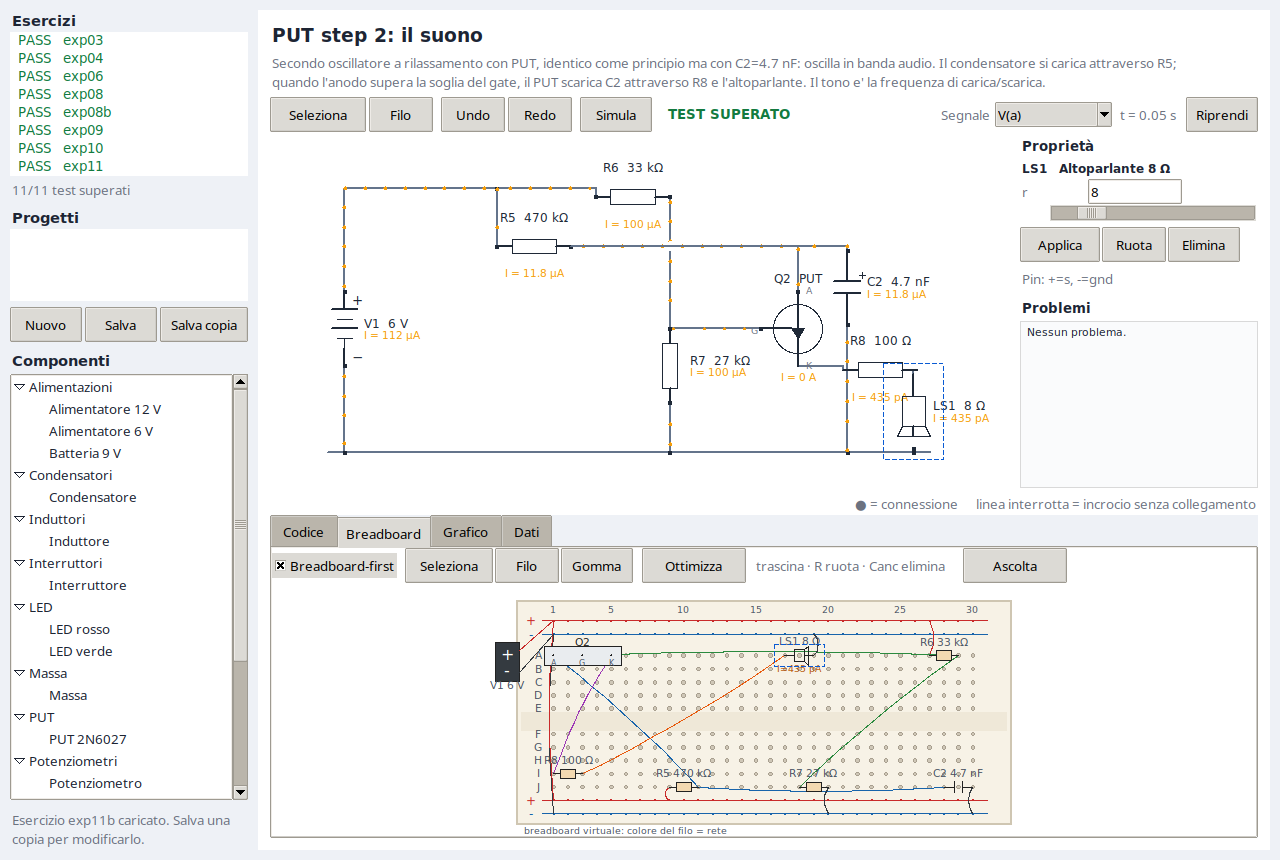
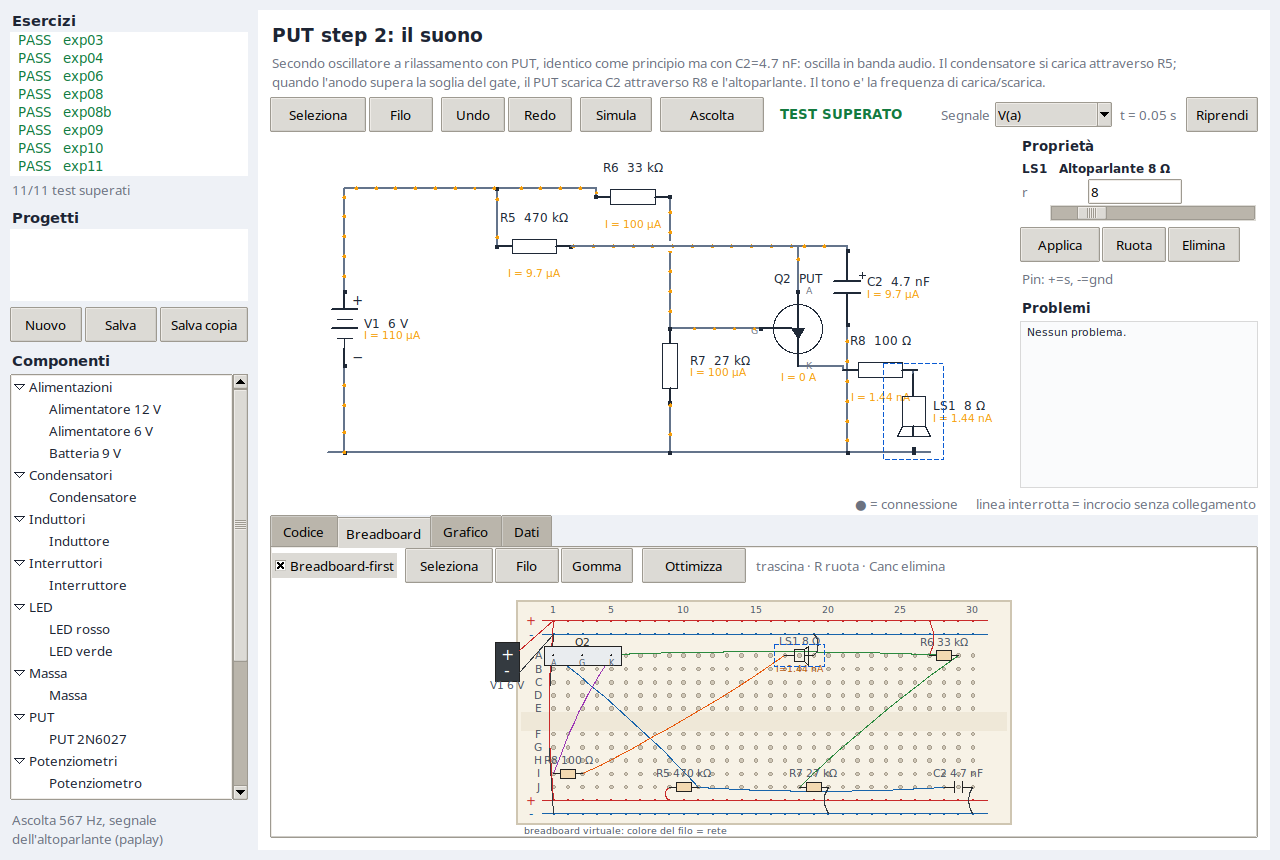
Play the real loudspeaker waveform and make the sound button global

diff --git a/clab/audio.py b/clab/audio.py
@@ -84,7 +84,7 @@ def play(path):
     return None
 
 
-def render(circ, res, path=None, seconds=0.6, rate=44100, play_audio=False):
+def render(circ, res, path=None, seconds=2.0, rate=44100, play_audio=False):
     pid, part, f, signal = measure(circ, res)
     if not 20.0 <= f <= 20000.0:
         raise AudioError(f"frequenza {f:.0f} Hz fuori dall'udibile")
@@ -92,19 +92,39 @@ def render(circ, res, path=None, seconds=0.6, rate=44100, play_audio=False):
         handle = tempfile.NamedTemporaryFile(prefix="elettrolab-", suffix=".wav", delete=False)
         path = handle.name
         handle.close()
-    n = max(1, int(seconds * rate))
-    t = np.arange(n, dtype=float) / rate
-    tone = np.sign(np.sin(2.0 * math.pi * f * t))
+
+    t = np.asarray(res.time, dtype=float)
+    y = np.asarray(signal, dtype=float)
+    lo, hi = float(np.min(y)), float(np.max(y))
+    threshold = lo + (hi - lo) * 0.5
+    edges = np.where((y[:-1] <= threshold) & (y[1:] > threshold))[0]
+    if len(edges) >= 2:
+        i0, i1 = int(edges[0]), int(edges[-1]) + 1
+        tseg, seg = t[i0:i1], y[i0:i1]
+    else:
+        tseg, seg = t, y
+    seg = seg - float(np.mean(seg))
+    n = max(32, int(round((tseg[-1] - tseg[0]) * rate)))
+    seg = np.interp(np.linspace(tseg[0], tseg[-1], n), tseg, seg)
     k = max(1, int(rate / 12000))
-    tone = np.convolve(tone, np.ones(k) / k, mode="same")
-    fade = min(n // 4, int(0.01 * rate))
+    seg = np.convolve(seg, np.ones(k) / k, mode="same")
+
+    n_out = max(1, int(seconds * rate))
+    reps = int(math.ceil(n_out / len(seg)))
+    out = np.tile(seg, reps)[:n_out]
+    peak = float(np.max(np.abs(out)))
+    if peak < 1e-12:
+        raise AudioError("segnale dell'altoparlante nullo")
+    out = np.tanh((out / peak) * 8.0)
+    out -= float(np.mean(out))
+    peak = float(np.max(np.abs(out)))
+    out *= 0.85 / peak
+    fade = min(n_out // 4, int(0.01 * rate))
     if fade > 0:
-        env = np.ones(n)
-        env[:fade] = np.linspace(0.0, 1.0, fade)
-        env[-fade:] = np.linspace(1.0, 0.0, fade)
-        tone *= env
-    tone *= 0.35
-    _write_wav(path, tone, rate)
+        out[:fade] *= np.linspace(0.0, 1.0, fade)
+        out[-fade:] *= np.linspace(1.0, 0.0, fade)
+
+    _write_wav(path, out, rate)
     player = play(path) if play_audio else None
     return {
         "path": str(path),
@@ -113,4 +133,5 @@ def render(circ, res, path=None, seconds=0.6, rate=44100, play_audio=False):
         "rate": rate,
         "player": player,
         "transducer": pid,
+        "mode": "signal",
     }

diff --git a/clab/gui.py b/clab/gui.py
@@ -200,6 +200,7 @@ class App:
         ttk.Button(bar, text="Undo", width=6, command=self._undo).pack(side="left")
         ttk.Button(bar, text="Redo", width=6, command=self._redo).pack(side="left", padx=(3, 8))
         ttk.Button(bar, text="Simula", width=7, command=self._after_change).pack(side="left")
+        self.sound_btn = ttk.Button(bar, text="Ascolta", command=self._play_sound)
         self.status = ttk.Label(bar, text="", style="Status.TLabel")
         self.status.pack(side="left", padx=(14, 0))
         self.viol = ttk.Label(bar, text="", style="Card.TLabel", foreground=FAIL)
@@ -261,7 +262,6 @@ class App:
                    command=lambda: self._set_bb_tool("erase")).pack(side="left", padx=1)
         ttk.Button(bbar, text="Ottimizza", command=self._optimize_board).pack(
             side="left", padx=(8, 0))
-        self.sound_btn = ttk.Button(bbar, text="Ascolta", command=self._play_sound)
         ttk.Label(bbar, text="trascina · R ruota · Canc elimina",
                   style="Muted.TLabel").pack(side="left", padx=8)
         self.bb_canvas = tk.Canvas(bbf, bg=CARD, highlightthickness=0)
@@ -551,7 +551,7 @@ class App:
             for pid in self.doc.parts))
         if has:
             if not self.sound_btn.winfo_manager():
-                self.sound_btn.pack(side="left", padx=(8, 0))
+                self.sound_btn.pack(side="left", padx=(8, 0), before=self.status)
         else:
             self.sound_btn.pack_forget()
 
@@ -566,7 +566,7 @@ class App:
             self._hint(f"Audio: {e}")
             return
         player = info.get("player") or f"WAV: {info['path']}"
-        self._hint(f"Audio {info['frequency']:.0f} Hz ({player})")
+        self._hint(f"Ascolta {info['frequency']:.0f} Hz, segnale dell'altoparlante ({player})")
 
     def _optimize_board(self):
         if self.doc is None:

diff --git a/tests/test_audio.py b/tests/test_audio.py
@@ -1,5 +1,7 @@
 import json
 import tempfile
+
+import numpy as np
 import unittest
 import wave
 from pathlib import Path
@@ -42,6 +44,14 @@ class AudioTests(unittest.TestCase):
                 self.assertEqual(w.getnchannels(), 1)
                 self.assertEqual(w.getframerate(), 44100)
                 self.assertAlmostEqual(w.getnframes() / 44100, 0.2, delta=0.01)
+                rate = w.getframerate()
+                samples = np.frombuffer(w.readframes(w.getnframes()), dtype="<i2").astype(float)
+            spec = np.abs(np.fft.rfft(samples * np.hanning(len(samples))))
+            freqs = np.fft.rfftfreq(len(samples), 1.0 / rate)
+            fundamental = spec[(freqs > 500) & (freqs < 650)].max()
+            harmonic = spec[(freqs > 1080) & (freqs < 1200)].max()
+            self.assertGreater(fundamental, 0)
+            self.assertGreater(harmonic, fundamental * 0.1)
 
     def test_no_transducer(self):
         circ = load("exp03")

diff --git a/clab/cli.py b/clab/cli.py
@@ -78,7 +78,7 @@ def cmd_run(args):
             print(f"Audio: {e}")
         else:
             print()
-            print(f"Audio: {info['frequency']:.0f} Hz, {info['path']}")
+            print(f"Audio: {info['frequency']:.0f} Hz, segnale dell'altoparlante, {info['path']}")
             if info["player"]:
                 print(f"  riprodotto con {info['player']}")
     if args.strict and not res.ok:

diff --git a/docs/EXERCISES.md b/docs/EXERCISES.md
@@ -15,7 +15,7 @@ attese. `./lab run <id>` lo simula, `./lab check` li esegue tutti.
 | `exp09` | Tempo e condensatori | Transitorio | `V(m) = 5.68 V` a 10 s | costante di tempo `tau = R*C` |
 | `exp10` | Il transistor come interruttore | DC | `Ic = 11.45 mA`, `Vce = 0.20 V` | NPN in cutoff, attivo e saturazione |
 | `exp11` | Oscillatore a rilascio con PUT | Transitorio | picco 14.5 mA, periodo 1.04 s | PUT, carica RC, LED impulsivo |
-| `exp11b` | PUT step 2: il suono | Transitorio | ~562 Hz, 1.45 mA di picco | secondo oscillatore in banda audio, altoparlante |
+| `exp11b` | PUT step 2: il suono | Transitorio | ~567 Hz, 5.7 mA di picco | secondo oscillatore in banda audio, altoparlante |
 | `exp13` | Friggere un LED | DC | `I(D1) = 720 mA` | senza resistenza il LED si brucia |
 | `lrc` | RLC serie | Transitorio | picco 9.14 V, `f0 = 15.9 Hz` | risonanza e smorzamento |
 
@@ -163,7 +163,7 @@ Versione isolata dello step 2: lo stesso oscillatore PUT di `exp11`, ma con
 - `R5 = 470 kΩ`, `R6 = 33 kΩ`, `R7 = 27 kΩ`: gate a 2.7 V, soglia 3.3 V
 - `C2 = 4.7 nF` carica attraverso R5
 - il PUT scarica C2 attraverso `R8 = 100 Ω` e l'altoparlante da 8 Ω
-- frequenza simulata: circa **562 Hz**, corrente di picco sull'altoparlante 1.45 mA
+- frequenza simulata: circa **567 Hz**, corrente di picco sull'altoparlante 5.7 mA
 
 ```bash
 ./lab run exp11b --play          # genera e riproduce il tono
@@ -171,8 +171,9 @@ Versione isolata dello step 2: lo stesso oscillatore PUT di `exp11`, ma con
 ./lab gui exp11b                 # pulsante "Ascolta"
 ```
 
-Il suono è sintetizzato alla frequenza misurata (tono quadrato filtrato), non è
-un modello acustico dell'altoparlante. I player usati sono `paplay`, `pw-play`,
+Il suono è il segnale reale dell'altoparlante (corrente impulsiva) risamplato e
+compresso: contiene la fondamentale (~567 Hz) e le armoniche. Non è un modello
+acustico. I player usati sono `paplay`, `pw-play`,
 `aplay` o `ffplay`.
 
 ### exp13 - Friggere un LED

diff --git a/docs/GUI.md b/docs/GUI.md
@@ -178,10 +178,10 @@ fori, rail di alimentazione, componenti e jumper colorati per rete.
 
 ![Pulsante Ascolta](gui-sound.png)
 
-Nei circuiti con altoparlante o buzzer compare **Ascolta**: il simulatore misura
-la frequenza dell'oscillazione e riproduce un tono con il player di sistema
-(`paplay`, `pw-play`, `aplay`, `ffplay`). È disponibile anche da CLI con
-`./lab run exp11b --play` o `--wav file.wav`. Il timbro è sintetico, non acustico.
+Nei circuiti con altoparlante o buzzer compare **Ascolta**: il simulatore riproduce il
+segnale reale dell'altoparlante (corrente impulsiva, con le sue armoniche) con il
+player di sistema (`paplay`, `pw-play`, `aplay`, `ffplay`). È disponibile anche da CLI con
+`./lab run exp11b --play` o `--wav file.wav`. Il timbro è quello del segnale simulato; manca solo l'acustica.
 
 ## Simboli
 

diff --git a/docs/MODELS.md b/docs/MODELS.md
@@ -93,9 +93,9 @@ tarati su datasheet.
 ## Altoparlante e suono
 
 L'altoparlante (`SPK`) e' un carico resistivo da 8 Ω. Il suono non e' simulato
-acusticamente: si misura la frequenza dell'oscillazione elettrica (attraversamenti
-di soglia della corrente) e si genera un tono alla stessa frequenza, con inviluppo
-e filtro passa-basso. Il file WAV e' riprodotto con `paplay`, `pw-play`, `aplay`
+acusticamente: si riproduce il segnale reale della corrente dell'altoparlante,
+risamplato, filtrato e compresso; contiene la fondamentale e le armoniche. Il file
+WAV e' riprodotto con `paplay`, `pw-play`, `aplay` o `ffplay`. Il file WAV e' riprodotto con `paplay`, `pw-play`, `aplay`
 o `ffplay`. Il timbro reale dipende dall'altoparlante e dalla cassa; il tono del
 simulatore serve a sentire la frequenza del circuito.
 

diff --git a/README.md b/README.md
@@ -23,7 +23,8 @@ database sono generici e non legati a un corso specifico.
 - aggiunta di componenti direttamente dalla breadboard: seleziona dalla palette
   e clicca un foro; poi collega con Filo
 - suono: l'esercizio exp11b (step 2 del PUT) ha un altoparlante; `--play` o il
-  pulsante Ascolta riproducono il tono alla frequenza simulata
+  pulsante Ascolta riproducono il segnale reale dell'altoparlante, con la
+  fondamentale e le armoniche
 - assemblaggio "spazioso": i componenti sono distribuiti massimizzando la
   distanza, con pulsante **Ottimizza disposizione**
 - Editor grafico: palette, spostamento, rotazione, collegamento pin-to-pin

diff --git a/docs/COMPONENTS.md b/docs/COMPONENTS.md
@@ -144,8 +144,8 @@ modello comportamentale: non riproduce il rapporto intrinseco o le curve del
 ### SPK
 
 Altoparlante da 8 Ω modellato come carico resistivo. Il motore non simula
-l'acustica: il suono viene sintetizzato alla frequenza di oscillazione misurata
-sul segnale elettrico. `pmax` e' la potenza massima.
+l'acustica: riproduce il segnale reale della corrente dell'altoparlante, con la
+fondamentale e le armoniche. `pmax` e' la potenza massima.
 
 ### GND
 
